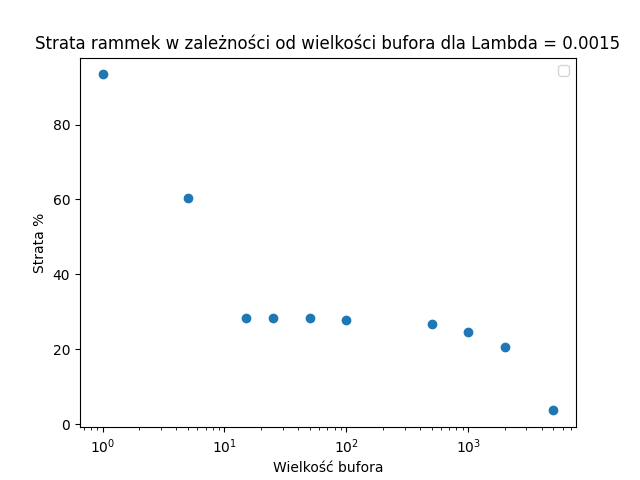
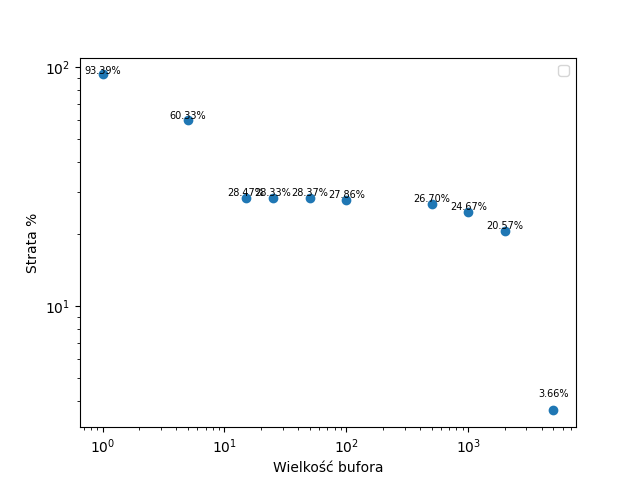
Wykresy end

diff --git a/wykresy/wykres_bufory_lost%_exp(0,005)(2).py b/wykresy/wykres_bufory_lost%_exp(0,005)(2).py
@@ -3,7 +3,8 @@ import numpy as np
 
 # Przykładowe dane - punkty i przedziały ufności
 x_values = np.array([1,10,15,20,25,30,35,40])
-y_values = np.array([97.59988,68.3489,51.79046667,35.20173333,19.76143333,7.32701,7.288166667,0.116633333
+y_values = np.array([97.59988,68.3489,51.79046667,35.20173333,19.76143333,7.32701,1.44126
+,0.116633333
 ])
 
 # Przykładowe przedziały ufności (dolne i górne wartości)
@@ -19,12 +20,16 @@ plt.scatter(x_values, y_values)
 # Rysowanie przedziałów ufności
 #plt.errorbar(x_values, y_values, yerr=[y_values - lower_confidence_interval, upper_confidence_interval - y_values],
             # fmt='none', ecolor='gray', capsize=5, capthick=2)
+text_offset = 0.05
+for x, y in zip(x_values, y_values):
+    plt.text(x, y+text_offset , '{:.2f}%'.format(y), fontsize=7, ha='center')
+
 
 # Dodanie etykiet i legendy
 plt.xlabel('Wielkość bufora')
 plt.ylabel('Strata %')
-plt.title('Strata ramek w zależności od wielkości bufora dla Lambda = 0.005')
-#plt.xscale('log')
+#plt.title('Strata ramek w zależności od wielkości bufora dla Lambda = 0.005')
+plt.yscale('log')
 
 plt.legend()
 

diff --git a/wykresy/Mac_flooding_CAM.py b/wykresy/Mac_flooding_CAM.py
@@ -27,13 +27,23 @@ plt.scatter(x_values, y_values_32,label='CAM SIZE= 32')
 # Dodanie etykiet i legendy
 plt.xlabel('CAM TTL')
 plt.ylabel('Strata ramek [%]')
+text_offset = 0
+for x, y in zip(x_values, y_values_4):
+    plt.text(x, y+text_offset , '{:.2f}%'.format(y), fontsize=7, ha='center')
 
+for x, y in zip(x_values, y_values_8):
+    plt.text(x, y+text_offset , '{:.2f}%'.format(y), fontsize=7, ha='center')
+for x, y in zip(x_values, y_values_16):
+    plt.text(x, y+text_offset , '{:.2f}%'.format(y), fontsize=7, ha='center')
+
+#plt.yscale('log')
+plt.legend()
 #formatter = FuncFormatter(lambda y, _: '{:.0f}%'.format(y))
 #plt.gca().yaxis.set_major_formatter(formatter)
 #text_offset = 0.2
 #for x, y in zip(x_values, y_values):
     #plt.text(x, y+text_offset , '{:.2f}%'.format(y), fontsize=6, ha='center')
-plt.yscale('log')
+
 plt.legend()
 
 # Wyświetlanie wykresu

diff --git a/wykresy/wykres_bufory_lost%_exp(0,0035).py b/wykresy/wykres_bufory_lost%_exp(0,0035).py
@@ -18,11 +18,16 @@ plt.scatter(x_values, y_values)
 # Rysowanie przedziałów ufności
 #plt.errorbar(x_values, y_values, yerr=[y_values - lower_confidence_interval, upper_confidence_interval - y_values],
             # fmt='none', ecolor='gray', capsize=5, capthick=2)
-
+text_offset = 0.5
+for x, y in zip(x_values, y_values):
+    plt.text(x, y+text_offset , '{:.2f}%'.format(y), fontsize=7, ha='center')
 # Dodanie etykiet i legendy
 plt.xlabel('Wielkość bufora')
 plt.ylabel('Strata %')
-plt.title('Strata ramek w zależności od wielkości bufora dla Lambda = 0.0035')
+# Dodanie etykiet i legendy
+plt.xlabel('Wielkość bufora')
+plt.ylabel('Strata %')
+#plt.title('Strata ramek w zależności od wielkości bufora dla Lambda = 0.0035')
 plt.xscale('log')
 
 plt.legend()

diff --git a/wykresy/Straty_w_funkcji_EXP_0.001.py b/wykresy/Straty_w_funkcji_EXP_0.001.py
@@ -20,12 +20,17 @@ plt.scatter(x_values, y_values)
 # Rysowanie przedziałów ufności
 #plt.errorbar(x_values, y_values, yerr=[y_values - lower_confidence_interval, upper_confidence_interval - y_values],
             # fmt='none', ecolor='gray', capsize=5, capthick=2)
+text_offset = 0.08
+for x, y in zip(x_values, y_values):
+    plt.text(x, y+text_offset , '{:.2f}%'.format(y), fontsize=6, ha='center')
+plt.yscale('log')
+plt.legend()
 
 # Dodanie etykiet i legendy
-plt.xlabel('Wartość parametru Lambda')
+plt.xlabel('Wartość parametru  λ')
 plt.ylabel('Strata %')
-plt.title('Strata ramek w zależności od parametru Lambda')
-plt.xscale('log')
+#plt.title('Strata ramek w zależności od parametru Lambda')
+#plt.yscale('log')
 
 plt.legend()
 

diff --git a/wykresy/wykres_bufory_lost%_exp(0,0015).py b/wykresy/wykres_bufory_lost%_exp(0,0015).py
@@ -19,13 +19,15 @@ plt.scatter(x_values, y_values)
 # Rysowanie przedziałów ufności
 #plt.errorbar(x_values, y_values, yerr=[y_values - lower_confidence_interval, upper_confidence_interval - y_values],
             # fmt='none', ecolor='gray', capsize=5, capthick=2)
-
+text_offset = 0.5
+for x, y in zip(x_values, y_values):
+    plt.text(x, y+text_offset , '{:.2f}%'.format(y), fontsize=7, ha='center')
 # Dodanie etykiet i legendy
 plt.xlabel('Wielkość bufora')
 plt.ylabel('Strata %')
-plt.title('Strata rammek w zależności od wielkości bufora dla Lambda = 0.0015')
+#plt.title('Strata rammek w zależności od wielkości bufora dla Lambda = 0.0015')
+plt.yscale('log')
 plt.xscale('log')
-
 plt.legend()
 
 # Wyświetlanie wykresu

diff --git a/wykresy/Straty_w_funkcji_EXP_0.1.py b/wykresy/Straty_w_funkcji_EXP_0.1.py
@@ -21,11 +21,16 @@ plt.scatter(x_values, y_values)
 # Rysowanie przedziałów ufności
 #plt.errorbar(x_values, y_values, yerr=[y_values - lower_confidence_interval, upper_confidence_interval - y_values],
             # fmt='none', ecolor='gray', capsize=5, capthick=2)
+text_offset = 0.01
+for x, y in zip(x_values, y_values):
+    plt.text(x, y+text_offset , '{:.2f}%'.format(y), fontsize=7, ha='center')
+plt.yscale('log')
+plt.legend()
 
 # Dodanie etykiet i legendy
-plt.xlabel('Wartość parametru Lambda')
+plt.xlabel('Wartość parametru λ')
 plt.ylabel('Strata %')
-plt.title('Strata ramek w zależności od parametru Lambda')
+#plt.title('Strata ramek w zależności od parametru Lambda')
 #plt.xscale('log')
 
 plt.legend()

diff --git a/wykresy/wykres_bufory_lost%_exp(0,002).py b/wykresy/wykres_bufory_lost%_exp(0,002).py
@@ -19,11 +19,16 @@ plt.scatter(x_values, y_values)
 # Rysowanie przedziałów ufności
 #plt.errorbar(x_values, y_values, yerr=[y_values - lower_confidence_interval, upper_confidence_interval - y_values],
             # fmt='none', ecolor='gray', capsize=5, capthick=2)
+text_offset = 0.05
+for x, y in zip(x_values, y_values):
+    plt.text(x, y+text_offset , '{:.2f}%'.format(y), fontsize=7, ha='center')
 
+plt.legend()
 # Dodanie etykiet i legendy
 plt.xlabel('Wielkość bufora')
 plt.ylabel('Strata %')
-plt.title('Strata ramek w zależności od wielkości bufora dla Lambda = 0.002 ')
+#plt.title('Strata ramek w zależności od wielkości bufora dla Lambda = 0.002 ')
+
 plt.xscale('log')
 
 plt.legend()

diff --git a/wykresy/wykres_bufory_lost%_exp(0,002)(2).py b/wykresy/wykres_bufory_lost%_exp(0,002)(2).py
@@ -19,11 +19,15 @@ plt.scatter(x_values, y_values)
 # Rysowanie przedziałów ufności
 #plt.errorbar(x_values, y_values, yerr=[y_values - lower_confidence_interval, upper_confidence_interval - y_values],
             # fmt='none', ecolor='gray', capsize=5, capthick=2)
+text_offset = 0.01
+for x, y in zip(x_values, y_values):
+    plt.text(x, y+text_offset , '{:.2f}%'.format(y), fontsize=7, ha='center')
 
+plt.legend()
 # Dodanie etykiet i legendy
 plt.xlabel('Wielkość bufora')
 plt.ylabel('Strata %')
-plt.title('Strata ramek w zależności od wielkości bufora dla Lambda = 0.002 ')
+#plt.title('Strata ramek w zależności od wielkości bufora dla Lambda = 0.002 ')
 #plt.xscale('log')
 
 plt.legend()

diff --git a/wykresy/wykres_bufory_lost%_exp(0,005).py b/wykresy/wykres_bufory_lost%_exp(0,005).py
@@ -19,11 +19,15 @@ plt.scatter(x_values, y_values)
 # Rysowanie przedziałów ufności
 #plt.errorbar(x_values, y_values, yerr=[y_values - lower_confidence_interval, upper_confidence_interval - y_values],
             # fmt='none', ecolor='gray', capsize=5, capthick=2)
+text_offset = 0.08
+for x, y in zip(x_values, y_values):
+    plt.text(x, y+text_offset , '{:.2f}%'.format(y), fontsize=7, ha='center')
 
+plt.legend()
 # Dodanie etykiet i legendy
 plt.xlabel('Wielkość bufora')
 plt.ylabel('Strata %')
-plt.title('Strata ramek w zależności od wielkości bufora dla Lambda = 0.005')
+#plt.title('Strata ramek w zależności od wielkości bufora dla Lambda = 0.005')
 plt.xscale('log')
 
 plt.legend()

diff --git a/wykresy/wykres_strata_ramka.py b/wykresy/wykres_strata_ramka.py
@@ -25,12 +25,16 @@ plt.scatter(x_values, y_values)
 # Rysowanie przedziałów ufności
 #plt.errorbar(x_values, y_values, yerr=[y_values - lower_confidence_interval, upper_confidence_interval - y_values],
             # fmt='none', ecolor='gray', capsize=5, capthick=2)
+text_offset = 0.01
+for x, y in zip(x_values, y_values):
+    plt.text(x, y+text_offset , '{:.2f}%'.format(y), fontsize=7, ha='center')
 
+plt.legend()
 # Dodanie etykiet i legendy
 plt.xlabel('Długość ramki')
 plt.ylabel('Strata [%]')
-plt.title('Strata ramek w zależności od długości ramki')
-plt.xscale('log')
+#plt.title('Strata ramek w zależności od długości ramki')
+#plt.yscale('log')
 
 plt.legend()
 

diff --git a/wykresy/straty_CONST.py b/wykresy/straty_CONST.py
@@ -20,11 +20,16 @@ plt.scatter(x_values, y_values)
 # Rysowanie przedziałów ufności
 #plt.errorbar(x_values, y_values, yerr=[y_values - lower_confidence_interval, upper_confidence_interval - y_values],
             # fmt='none', ecolor='gray', capsize=5, capthick=2)
-
+text_offset = 0.08
+for x, y in zip(x_values, y_values):
+    plt.text(x, y+text_offset , '{:.2f}%'.format(y), fontsize=6, ha='center')
+plt.yscale('log')
+plt.xscale('log')
 # Dodanie etykiet i legendy
 plt.xlabel('Wartość CONSTANT')
 plt.ylabel('Strata %')
-plt.title('Strata ramek w zależności od wartości CONSTANT')
+
+#plt.title('Strata ramek w zależności od wartości CONSTANT')
 
 
 plt.legend()

diff --git a/wykresy/CAM_LOST.py b/wykresy/CAM_LOST.py
@@ -29,11 +29,15 @@ plt.scatter(x_values, y_values)
 # Rysowanie przedziałów ufności
 #plt.errorbar(x_values, y_values, yerr=[y_values - lower_confidence_interval, upper_confidence_interval - y_values],
             # fmt='none', ecolor='gray', capsize=5, capthick=2)
+text_offset = 0.5
+for x, y in zip(x_values, y_values):
+    plt.text(x, y+text_offset , '{:.2f}%'.format(y), fontsize=7, ha='center')
+
 
 # Dodanie etykiet i legendy
 plt.xlabel('Wielkość tablicy CAM')
 plt.ylabel('Strata %')
-plt.title('Strata ramek w zależności wielkości tablicy CAM')
+#plt.title('Strata ramek w zależności wielkości tablicy CAM')
 plt.xscale('linear')
 
 plt.legend()
